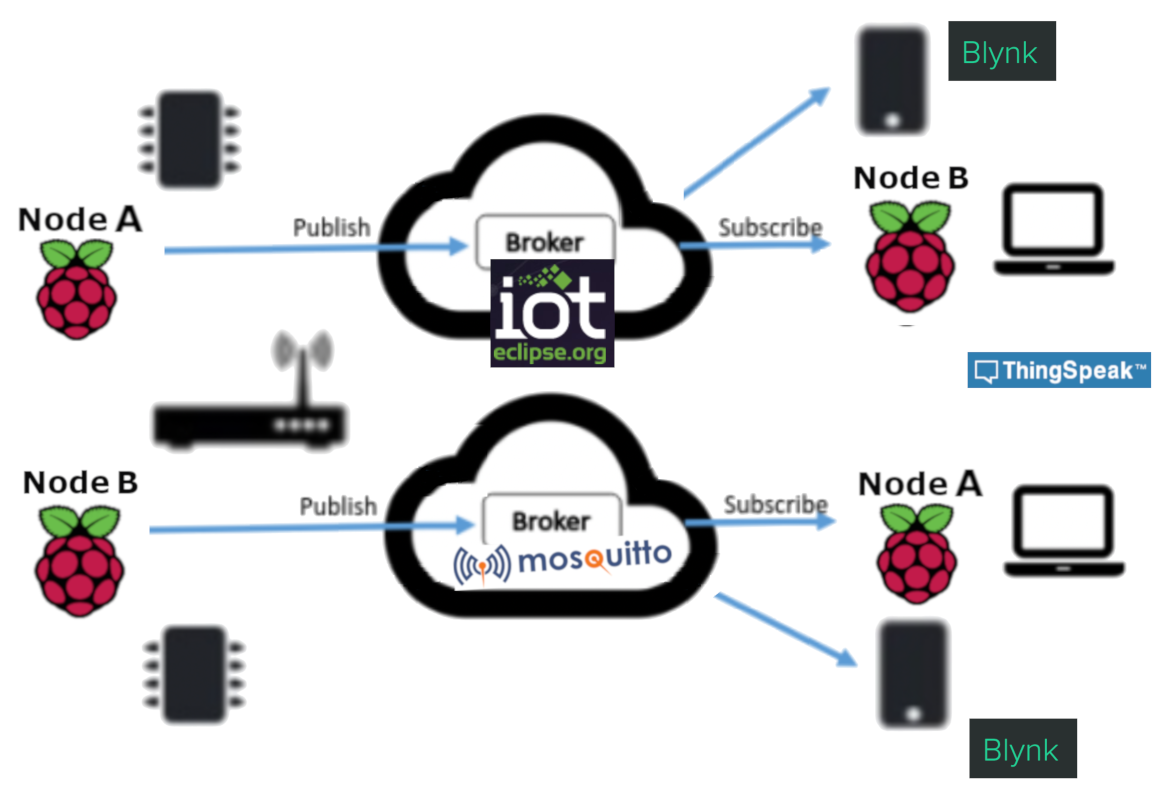
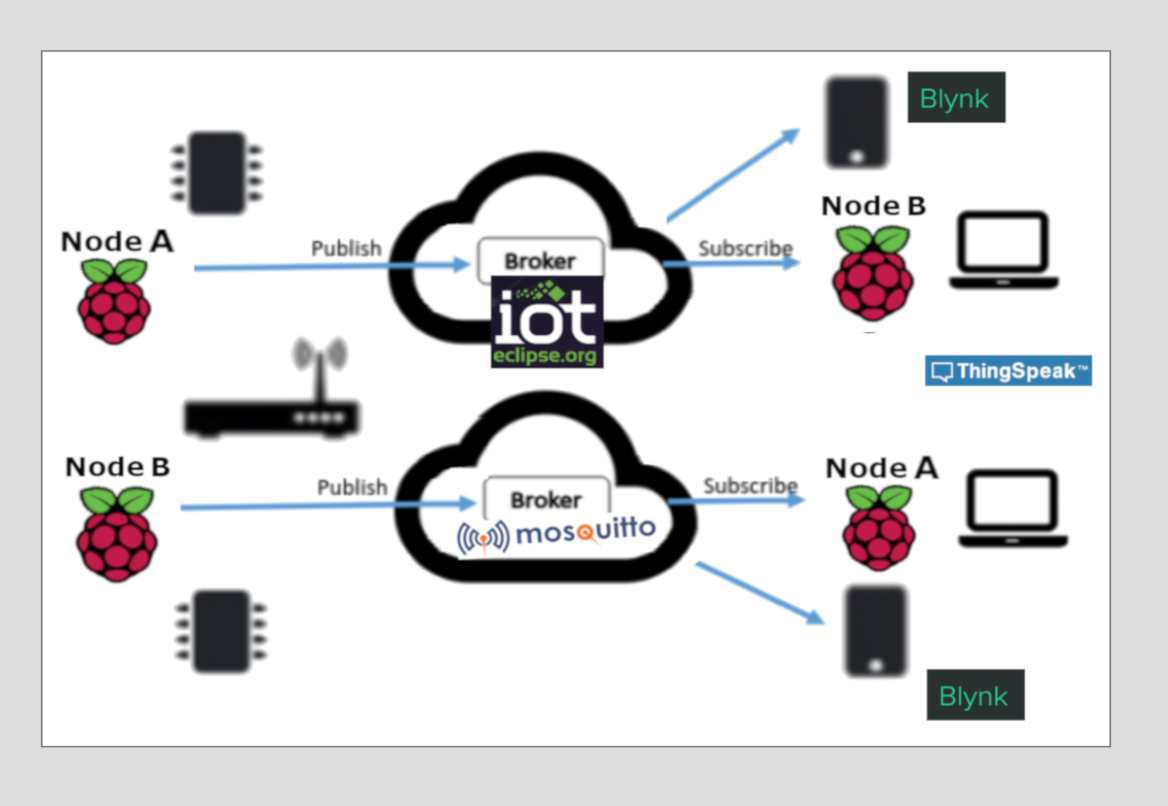
update mqtt readme

diff --git a/mqtt/README.rst b/mqtt/README.rst
@@ -3,8 +3,8 @@
 Use MQTT to publish/subscribe to/from sensor data (humidity, temp, pressure) in a flexible manner.
 
 .. image:: ./pics/mqtt-schema-diagram.png
-   :width: 1168
-   :height: 806
+   :width: 1168px
+   :height: 806px
    :scale: 60 %
    :alt: high level architecture
 
